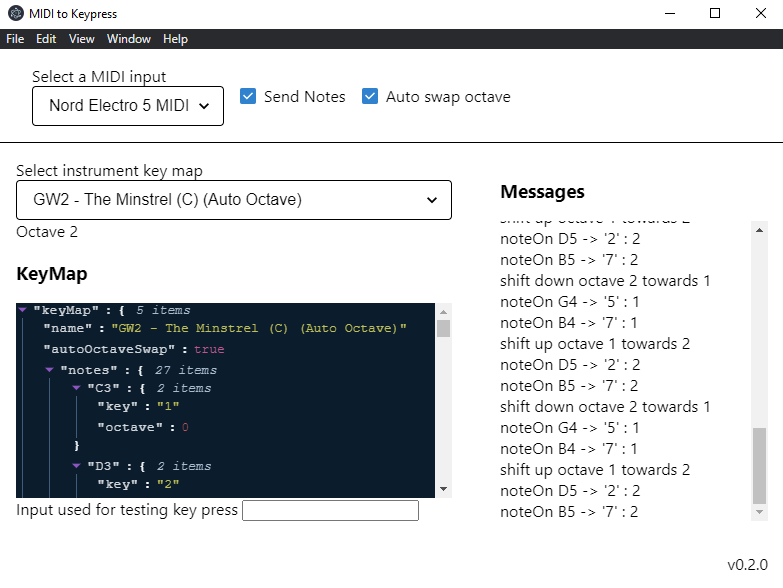
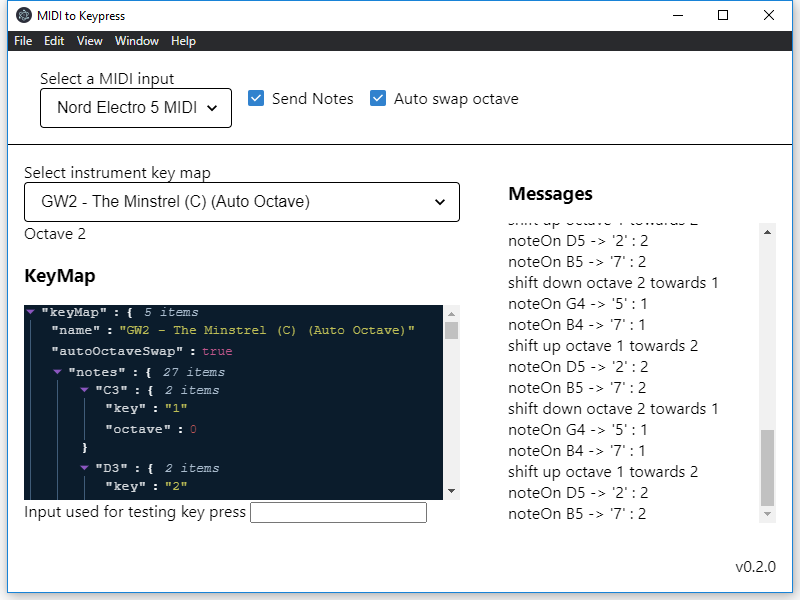
better screenshot

diff --git a/README.md b/README.md
@@ -1,6 +1,6 @@
 # midi-to-keypress
 
-![App screenshot](meda/screenshot.png?raw=true)
+![App screenshot](meda/screenshot.png?raw=true | width=550)
 
 This application converts midi messages to keyboard key presses.
 
